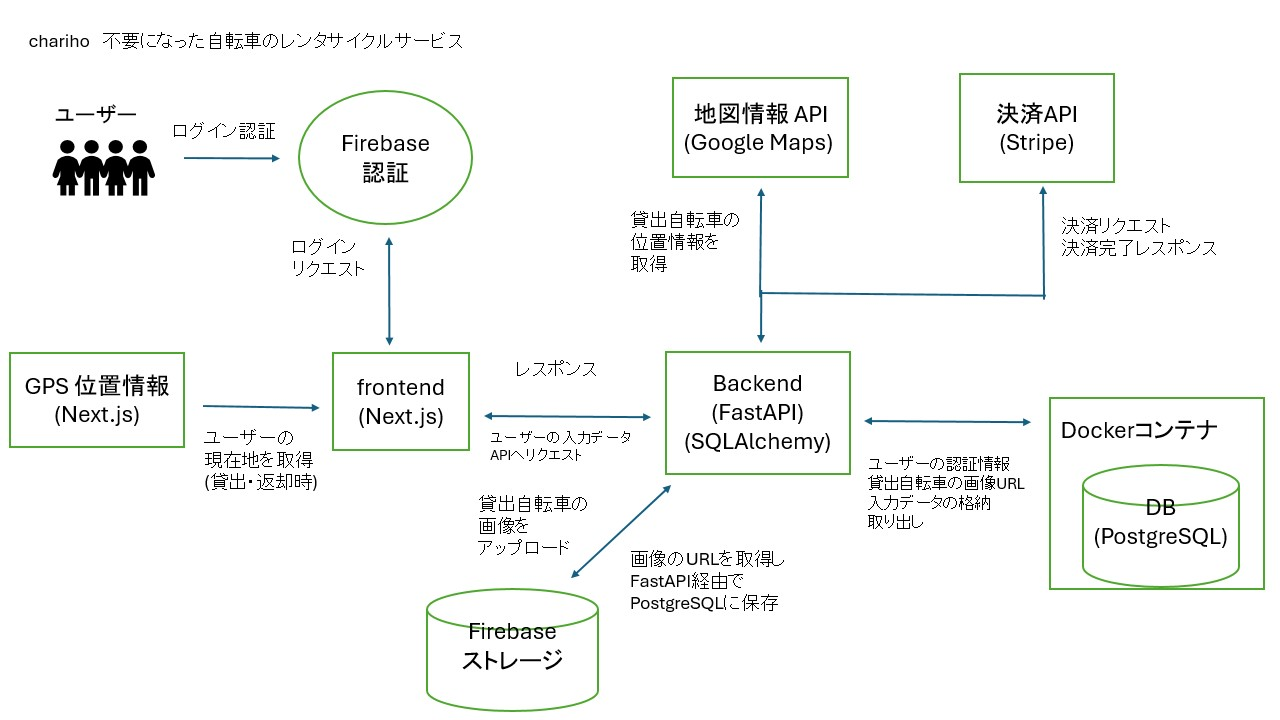
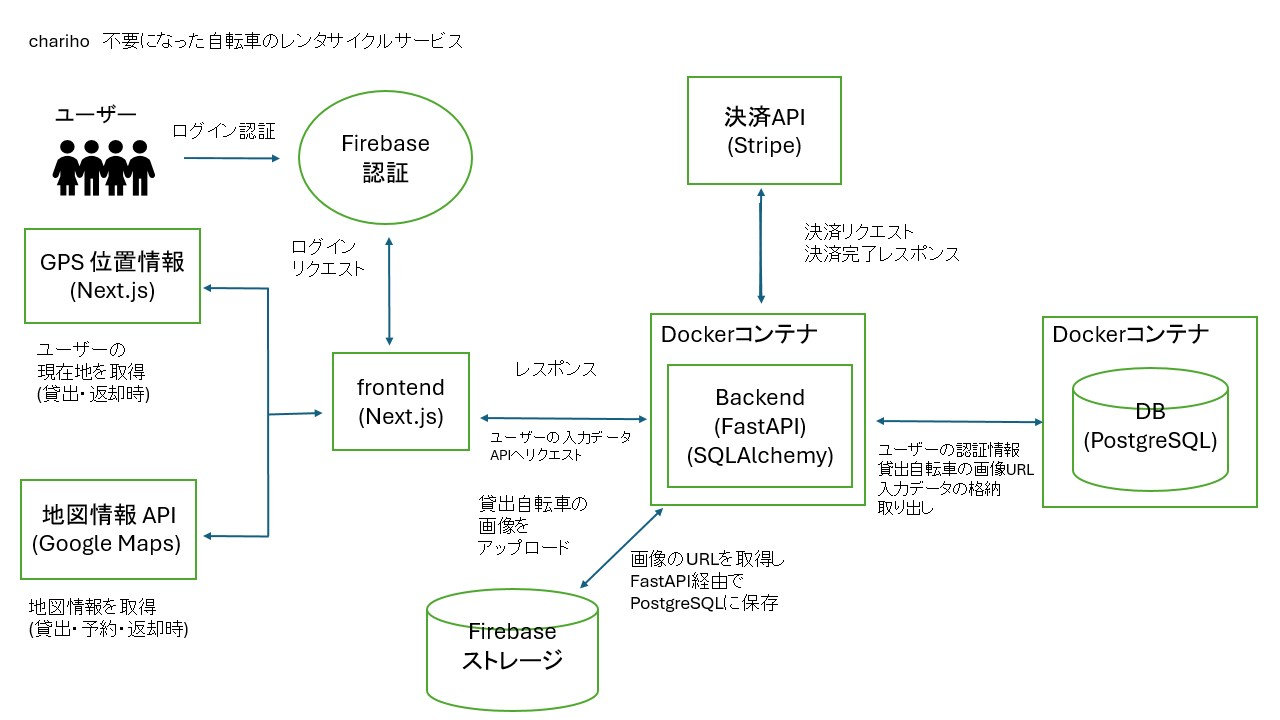
fix: architecture diagram and database_design

diff --git a/docs/database_design.md b/docs/database_design.md
@@ -8,74 +8,83 @@
 
 - アプリユーザーの登録情報を管理
 
-  | **カラム名** | **データ型** | **説明**       |
-  | ------------ | ------------ | -------------- |
-  | id           | INT          | 主キー         |
-  | firebase_uid | INT          | 認証用 UID     |
-  | name         | VARCHAR(100) | ユーザー名     |
-  | email        | VARCHAR(255) | メールアドレス |
-  | adress       | TEXT         | 住所           |
-  | phone_number | VARCHAR(20)  | 電話番号       |
-  | created_at   | TIMESTAMP    | 作成日時       |
-  | updated_at   | TIMESTAMP    | 更新日時       |
+| **カラム名** | **データ型** | **説明**                         |
+| ------------ | ------------ | -------------------------------- |
+| id           | INT          | 主キー（自動増分）               |
+| firebase_uid | VARCHAR(255) | Firebase 認証用 UID              |
+| first_name   | VARCHAR(100) | 名                               |
+| last_name    | VARCHAR(100) | 姓                               |
+| email        | VARCHAR(255) | メールアドレス（ユニーク）       |
+| address      | VARCHAR(255) | 住所                             |
+| phone_number | VARCHAR(20)  | 電話番号                         |
+| created_at   | TIMESTAMP    | 作成日時（デフォルト: 現在時刻） |
+| updated_at   | TIMESTAMP    | 更新日時（自動更新）             |
 
 ### 2. bicycles（自転車情報）
 
 - レンタル自転車の登録情報を管理
 
-  | **カラム名**          | **データ型**  | **説明**                          |
-  | --------------------- | ------------- | --------------------------------- |
-  | id                    | INT           | 主キー                            |
-  | owner_id              | INT           | ユーザー ID（外部キー）           |
-  | image_url             | TEXT          | 自転車の写真 URL                  |
-  | location              | TEXT          | 自転車の保管住所                  |
-  | rental_price_per_hour | DECIMAL(10,2) | 1 時間あたりの料金                |
-  | lock_type             | VARCHAR(50)   | 鍵方式（key: 鍵, dial: ダイヤル） |
-  | rental_period         | JSONB         | 貸出可能な期間情報                |
-  | created_at            | TIMESTAMP     | 作成日時                          |
-  | updated_at            | TIMESTAMP     | 更新日時                          |
+| **カラム名**          | **データ型**     | **説明**                         |
+| --------------------- | ---------------- | -------------------------------- |
+| id                    | BIGINT           | 主キー                           |
+| owner_id              | INT              | ユーザー ID（外部キー）          |
+| bikename              | VARCHAR(50)      | 自転車名                         |
+| image_url             | TEXT             | 自転車の写真 URL                 |
+| latitude              | DOUBLE PRECISION | 自転車の緯度                     |
+| longitude             | DOUBLE PRECISION | 自転車の経度                     |
+| rental_price_per_hour | DECIMAL(10,2)    | 1 時間あたりの料金（0 以上）     |
+| lock_type             | VARCHAR(10)      | 鍵方式（"key" or "dial"）        |
+| rental_period         | JSONB            | 貸出可能な期間情報               |
+| created_at            | TIMESTAMP        | 作成日時（デフォルト: 現在時刻） |
+| updated_at            | TIMESTAMP        | 更新日時（自動更新）             |
 
-### 3. reservations（予約情報）
+### 3. reservations（予約情報+ 決済情報）
 
-- レンタル自転車の予約情報を管理
+- レンタル自転車の予約および Stripe を使用した決済情報を管理
 
-  | **カラム名**   | **データ型** | **説明**                |
-  | -------------- | ------------ | ----------------------- |
-  | id             | INT          | 主キー                  |
-  | user_id        | INT          | ユーザー ID（外部キー） |
-  | bicycle_id     | INT          | 自転車 ID（外部キー）   |
-  | rental_start   | TIMESTAMP    | 希望開始日時            |
-  | rental_end     | TIMESTAMP    | 希望終了日時            |
-  | payment_method | JSONB        | 予約時の決済方法        |
-  | status         | VARCHAR(50)  | 予約の状態              |
-  | created_at     | TIMESTAMP    | 作成日時                |
-  | updated_at     | TIMESTAMP    | 更新日時                |
+| **カラム名**        | **データ型**  | **説明**                         |
+| ------------------- | ------------- | -------------------------------- |
+| id                  | INT           | 主キー（自動増分）               |
+| user_id             | INT           | ユーザー ID（外部キー）          |
+| bicycle_id          | BIGINT        | 自転車 ID（外部キー, NULL 可）   |
+| hours               | INT           | レンタル時間（1 以上）           |
+| amount              | DECIMAL(10,2) | 予約金額（0 以上）               |
+| status              | VARCHAR(50)   | 予約状態（"pending" or "paid"）  |
+| checkout_session_id | VARCHAR(255)  | Stripe 決済セッション ID         |
+| created_at          | TIMESTAMP     | 作成日時（デフォルト: 現在時刻） |
 
-### 4. notifications（通知情報）
+### 4. returns（返却情報）
 
-- アプリ内の通知情報を管理
+- 自転車の返却情報を管理
 
-  | **カラム名** | **データ型** | **説明**                |
-  | ------------ | ------------ | ----------------------- |
-  | id           | INT          | 主キー                  |
-  | user_id      | INT          | ユーザー ID（外部キー） |
-  | message      | TEXT         | 通知メッセージ          |
-  | read         | BOOLEAN      | 既読フラグ              |
-  | created_at   | TIMESTAMP    | 通知日時                |
+| **カラム名**            | **データ型**     | **説明**                           |
+| ----------------------- | ---------------- | ---------------------------------- |
+| id                      | INT              | 主キー（自動増分）                 |
+| reservation_id          | INT              | 予約 ID（外部キー）                |
+| bicycle_id              | BIGINT           | 自転車の ID（外部キー）            |
+| user_id                 | INT              | 利用者 ID（外部キー）              |
+| actual_return_latitude  | DOUBLE PRECISION | 実際の返却緯度                     |
+| actual_return_longitude | DOUBLE PRECISION | 実際の返却経度                     |
+| verified                | BOOLEAN          | 位置情報の一致判定（True / False） |
+| return_status           | VARCHAR(50)      | "on-time", "late", "damaged"       |
+| created_at              | TIMESTAMP        | 返却日時（デフォルト: 現在時刻）   |
 
-### 5. payments（決済情報）
+---
 
-- Stripe を使用した決済情報を管理
+### 5. earnings（収益情報）
 
-  | **カラム名**      | **データ型**  | **説明**                    |
-  | ----------------- | ------------- | --------------------------- |
-  | id                | INT           | 主キー                      |
-  | user_id           | INT           | ユーザー ID（外部キー）     |
-  | stripe_session_id | VARCHAR(255)  | Stripe のセッション ID      |
-  | amount            | DECIMAL(10,2) | 決済金額                    |
-  | status            | VARCHAR(50)   | 支払いの状態                |
-  | firebase_uid      | VARCHAR(255)  | Firebase の UID（外部キー） |
-  | created_at        | TIMESTAMP     | 支払い日時                  |
+- 貸し手（オーナー）の収益情報を管理
+
+| **カラム名**   | **データ型**  | **説明**                                |
+| -------------- | ------------- | --------------------------------------- |
+| id             | INT           | 主キー（自動増分）                      |
+| owner_id       | INT           | 自転車オーナーのユーザー ID（外部キー） |
+| bicycle_id     | BIGINT        | 自転車 ID（外部キー）                   |
+| reservation_id | INT           | 予約 ID（外部キー）                     |
+| amount_earned  | DECIMAL(10,2) | 貸し手の収益額（0 以上）                |
+| created_at     | TIMESTAMP     | 収益発生日時（デフォルト: 現在時刻）    |
+
+---
 
 ### 6. rental_history（レンタル履歴情報）
 
